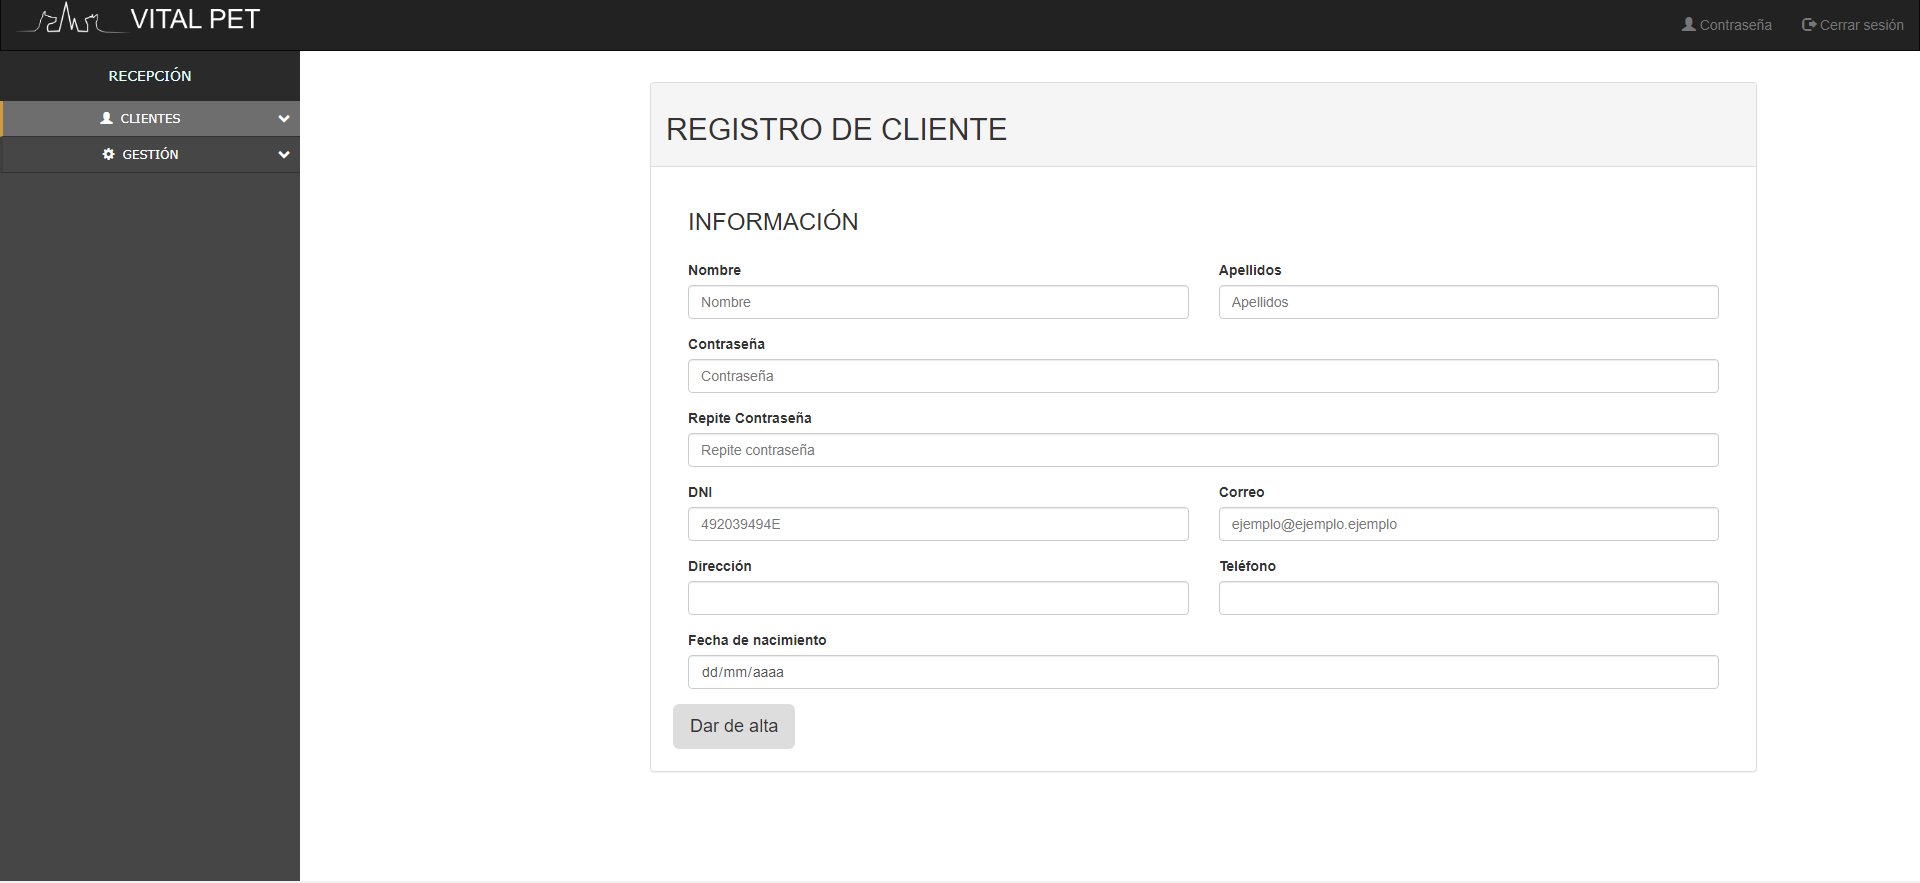
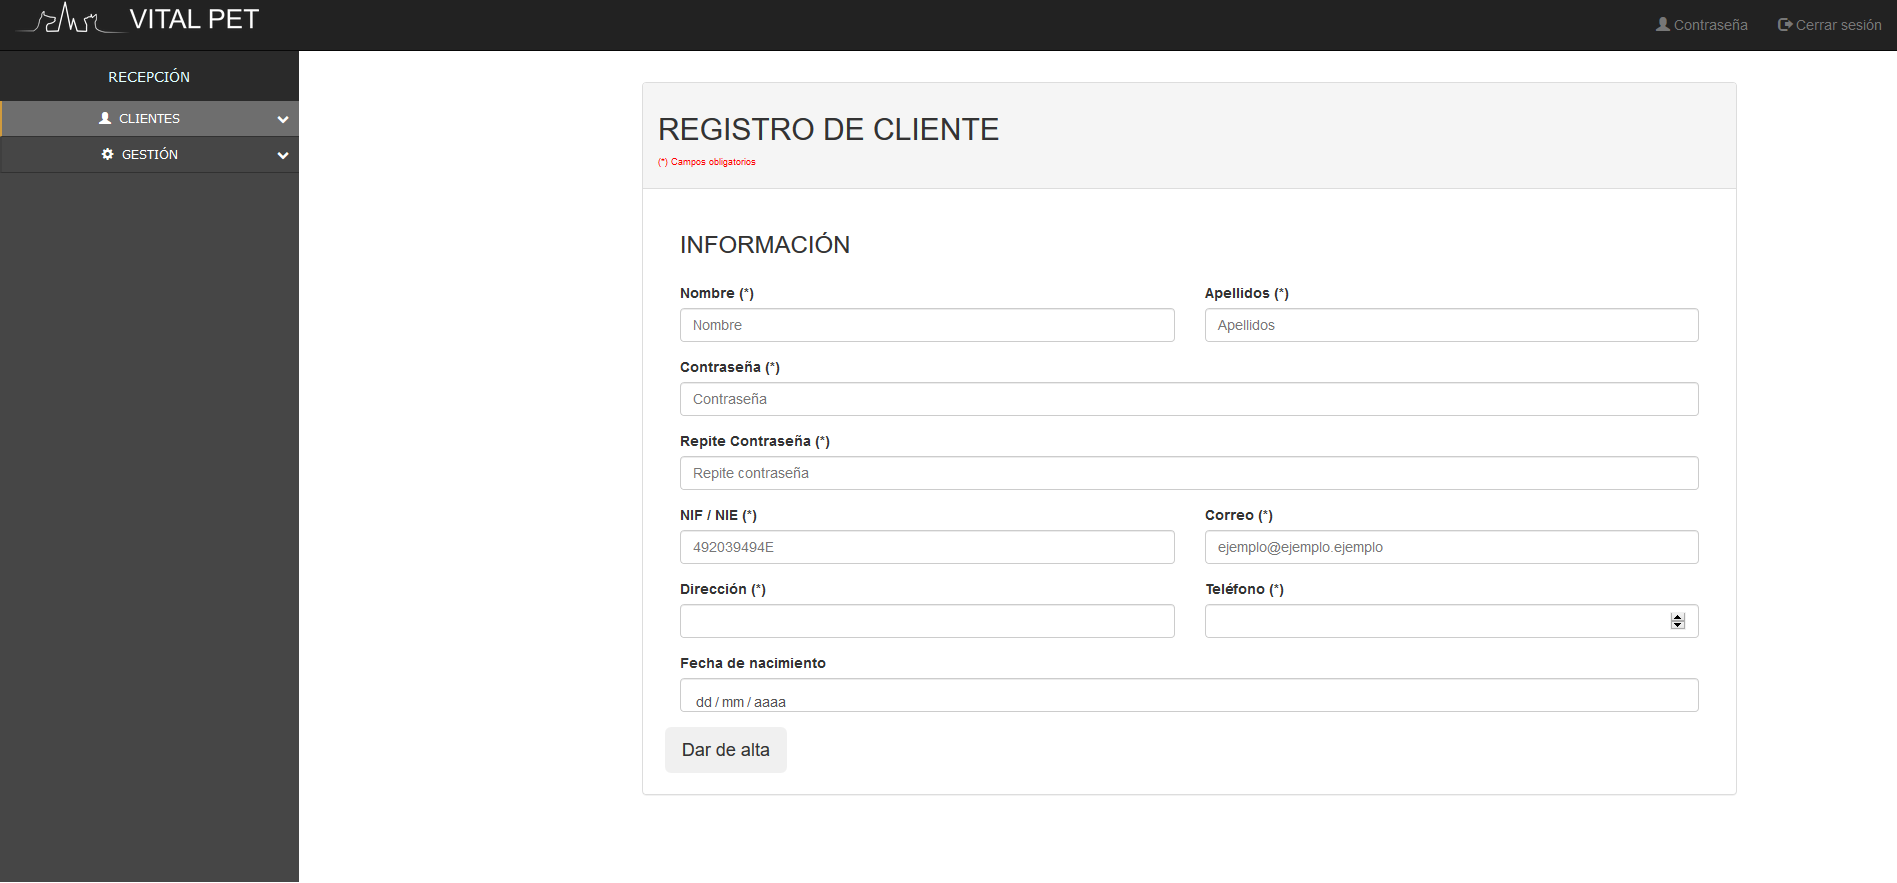
Imagenes para el proceso de la memoria

diff --git a/VISTA/COMUN/vistaGestionCliente.php b/VISTA/COMUN/vistaGestionCliente.php
@@ -83,7 +83,7 @@
             </label>
       </div>
       <div class="col-12 col-sm-12 col-md-4 col-lg-4">
-            <label name="busquedaDni_lb" id="id_busqueda_nombre">DNI:
+            <label name="busquedaDni_lb" id="id_busqueda_nombre">NIE/NIF:
             <input class="form-control" name="dni" id="myInput" type="text" value="<?= $dni ?>" placeholder="Busqueda...">
             </label>
       </div>
@@ -103,8 +103,8 @@
       <tr>
         <th>Nombre</th>
         <th>Apellidos</th>
-        <th>DNI</th>
-        <th>Telefono</th>
+        <th>NIE/NIF</th>
+        <th>Teléfono</th>
         <th>Correo</th>
         <th>Dirección</th>
         <?php
